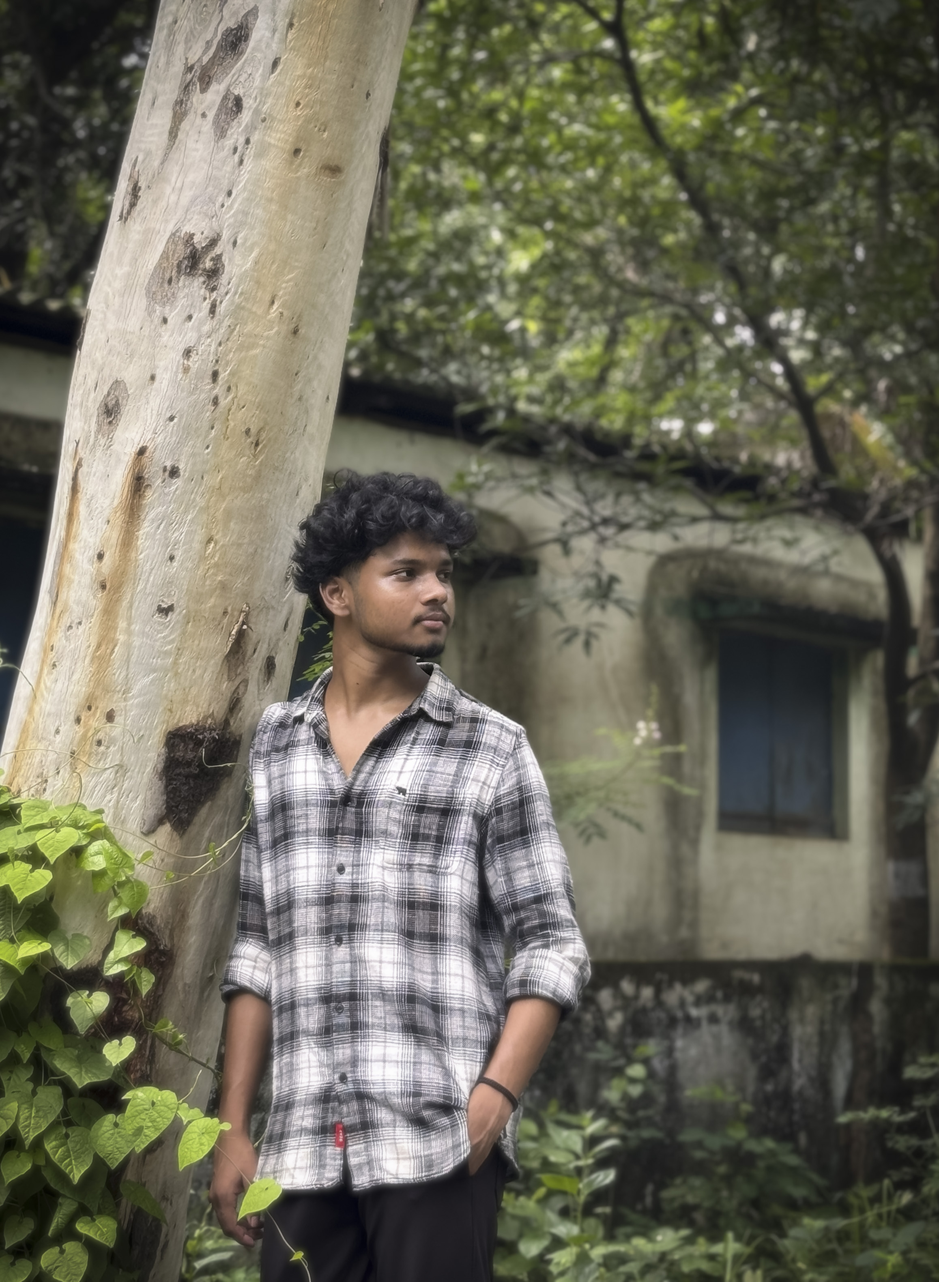
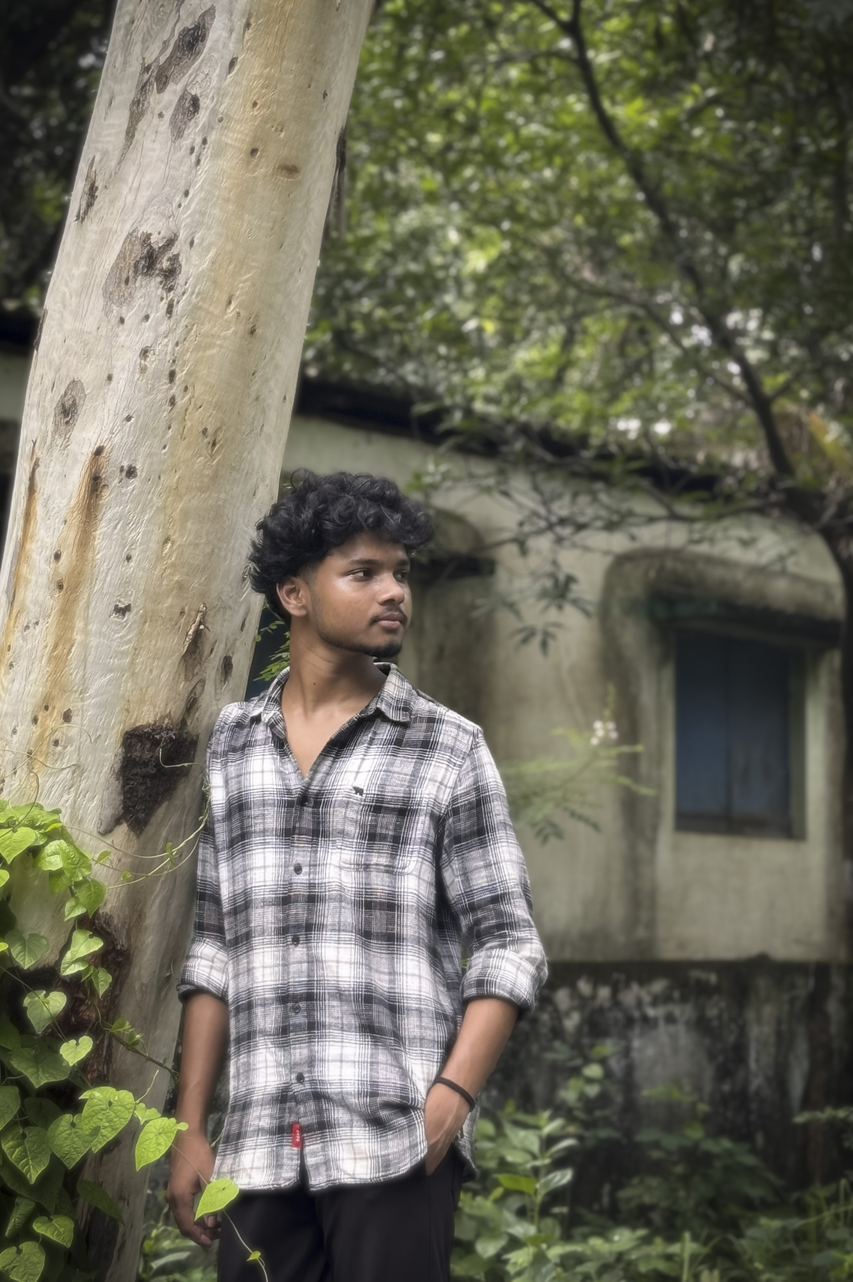
update

diff --git a/index.html b/index.html
@@ -261,7 +261,7 @@ Creative UI design and futuristic aesthetics inspire me a lot.
 <img src="photo 8.jpg" loading="lazy" onclick="openModal(this)">
 <img src="photo 9.jpg" loading="lazy" onclick="openModal(this)">
 <img src="photo 11.jpg" loading="lazy" onclick="openModal(this)">
-
+<img src="photo 12.jpg" loading="lazy" onclick="openModal(this)">
 </div>
 
 </section>
